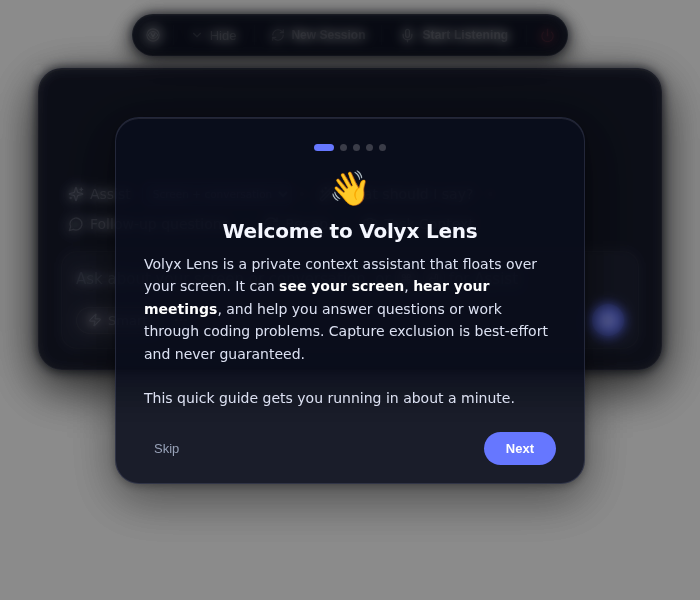
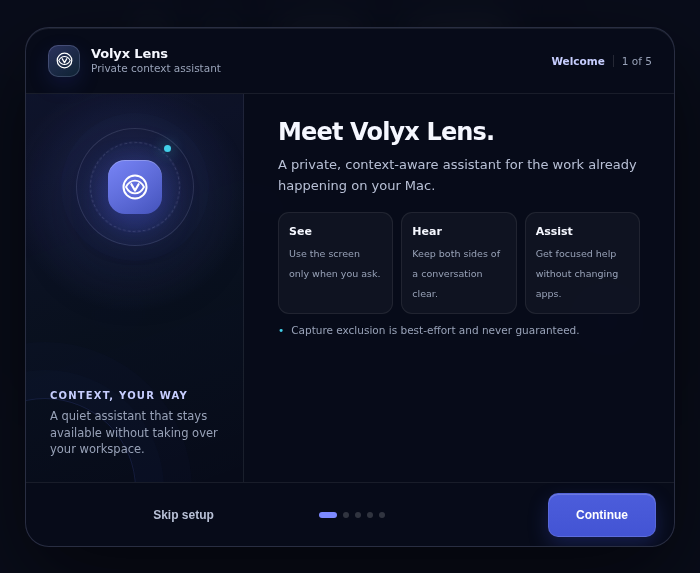
docs: refresh README screenshots

diff --git a/README.md b/README.md
@@ -6,7 +6,9 @@
 
 Bring your own AI key and keep control of the providers you use (OpenAI · Anthropic · Google Gemini · Azure Foundry · DeepSeek · Deepgram transcription).
 
-<img src="docs/tutorial.png" width="620" alt="Volyx Lens first-run tutorial" />
+<img src="docs/tutorial.png" width="700" alt="Volyx Lens redesigned first-run welcome screen" />
+
+<sub>The current five-step onboarding experience.</sub>
 
 </div>
 
@@ -14,10 +16,6 @@ Bring your own AI key and keep control of the providers you use (OpenAI · Anthr
 
 > [!IMPORTANT]
 > **Please read this first.** Volyx Lens tries to stay out of screen recordings/shares, but this is **best-effort, not guaranteed** — on macOS 15.4+ Apple can let modern capture tools see it anyway, and a phone camera always can. Using a hidden assistant during a **proctored exam, job interview, or recorded meeting** may break that platform's rules and, in some places, consent laws. Volyx Lens is built for legitimate uses — your own notes, studying, accessibility, and practice. **You are responsible for how you use it.**
->
-> On Zoom specifically, whether Volyx Lens is hidden depends on one setting — **Settings → Share Screen → Screen capture mode → "Advanced capture with window filtering."**
->
-> <img src="docs/zoom-capture-mode.png" width="560" alt="Zoom Settings → Share Screen → Screen capture mode set to Advanced capture with window filtering" />
 
 ---
 
@@ -95,7 +93,13 @@ If a permission was previously denied, macOS will not show the consent popup aga
 
 ### Step 2 — Add your AI key (bring your own)
 
-Volyx Lens uses **your own** API key, so it's free to run (you only pay your AI provider for what you use). Click the **`...`** button in the input box (or press `⌘` `,`) to open **Settings**. Provider tabs now open one clean configuration at a time: select a provider, add its key and models, then click **Use as default** when that provider should answer requests.
+Volyx Lens has no subscription fee, but your selected AI or transcription provider may charge for usage. Click the **`...`** button in the input box (or press `⌘` `,`) to open **Settings**. Provider tabs open one configuration at a time: select a provider, add its key and models, then click **Use as default** when that provider should answer requests.
+
+<div align="center">
+  <img src="docs/settings-providers.png" width="700" alt="Volyx Lens Settings showing response-provider selection and Azure Foundry configuration" />
+  <br />
+  <sub>Current provider Settings. Values shown are non-secret examples from the UI test harness.</sub>
+</div>
 
 | Provider | Get a key | Notes |
 |---|---|---|